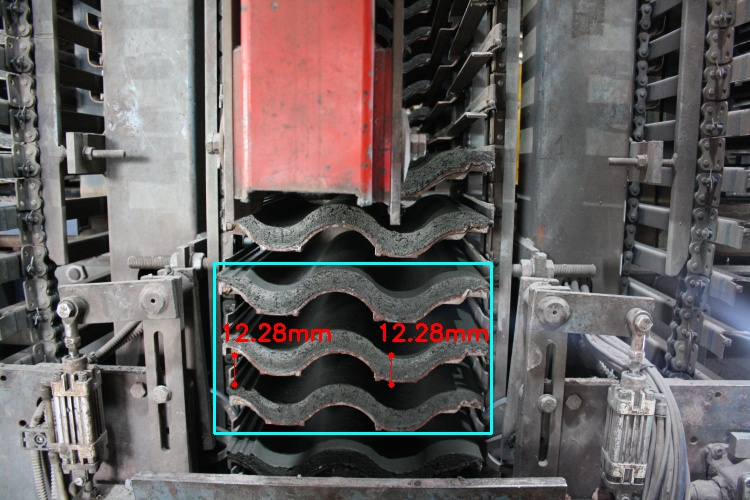
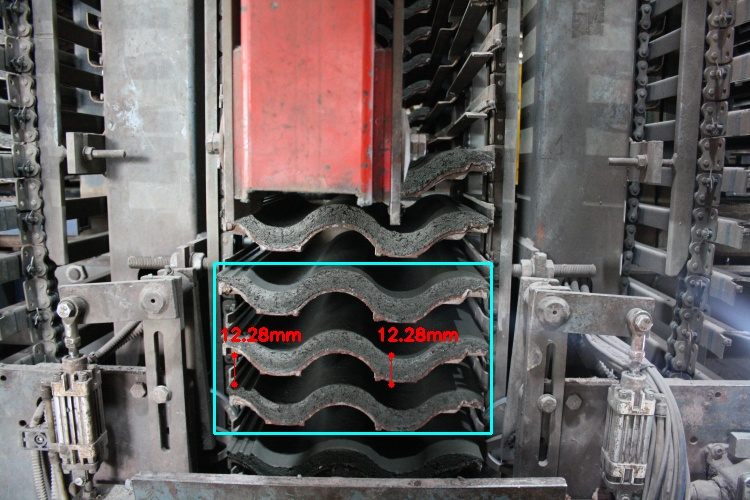
added image with all detected measurements

Changed region(s): [[0.4907, 0.63, 0.6747, 0.69], [0.276, 0.63, 0.46, 0.69]]

diff --git a/templates/index.html b/templates/index.html
@@ -158,8 +158,17 @@
 
    </div>
 
+   <div class="container">
+      <h2>All detected points</h2>
+   <img src = "{{data.caio}}" alt="{{data.caio}}" width="100%" height="100%">
+   <br>
+   <br>
+
+   </div>
+
 
    {% endif %}
+
 
 
    <script src="{{ url_for('static', filename='js/index.js') }}"></script>

diff --git a/app.py b/app.py
@@ -10,6 +10,7 @@ from scipy.spatial import distance as dist
 import imutils
 from imutils import perspective
 from imutils import contours
+import re
 
 # arrangements for heroku
 UPLOAD_FOLDER ='static/uploads/'
@@ -255,6 +256,7 @@ def detect_object(path, filename):    # TODO:
         # 'pixels per metric' calibration variable
         (cnts, _) = contours.sort_contours(cnts)
 
+        orig2 = oorig.copy()
         for c in cnts:
             orig = oorig.copy()
             
@@ -292,6 +294,7 @@ def detect_object(path, filename):    # TODO:
             # print(roic)
         
             cv2.drawContours(orig, [roic.astype("int")], -1, (255, 255, 0), 2)
+            cv2.drawContours(orig2, [roic.astype("int")], -1, (255, 255, 0), 2)
             # cv2.drawContours(orig, [box.astype("int")], -1, (0, 255, 0), 2)
         
         
@@ -301,6 +304,7 @@ def detect_object(path, filename):    # TODO:
             # loop over the original points and draw them
             for (x, y) in box:
                 cv2.circle(orig, (int(x), int(y)), 3, (0, 0, 255), -1)
+                cv2.circle(orig2, (int(x), int(y)), 3, (0, 0, 255), -1)
         
             # unpack the ordered bounding box, then compute the midpoint
             # between the top-left and top-right coordinates, followed by
@@ -315,6 +319,9 @@ def detect_object(path, filename):    # TODO:
 
             cv2.line(orig, tl, bl, (0, 0, 255), 1) 
             cv2.line(orig, tr, br, (0, 0, 255), 1) 
+
+            cv2.line(orig2, tl, bl, (0, 0, 255), 1) 
+            cv2.line(orig2, tr, br, (0, 0, 255), 1) 
         
             # # draw the midpoints on the image
             # cv2.circle(orig, (int(tltrX), int(tltrY)), 5, (255, 0, 0), -1)
@@ -349,10 +356,16 @@ def detect_object(path, filename):    # TODO:
             # draw the object sizes on the image
             cv2.putText(orig, "{:.2f}mm".format((dimA*2.54)*10),
                 (int(tl[0])-15, int(tl[1])-15), cv2.FONT_HERSHEY_SIMPLEX,
-                0.75, (0, 0, 255), 2)
+                0.55, (0, 0, 255), 2)
             cv2.putText(orig, "{:.2f}mm".format((dimA*2.54)*10),
                 (int(tr[0])-15, int(tr[1])-15), cv2.FONT_HERSHEY_SIMPLEX,
-                0.75, (0, 0, 255), 2)
+                0.55, (0, 0, 255), 2)
+            cv2.putText(orig2, "{:.2f}mm".format((dimA*2.54)*10),
+                (int(tl[0])-15, int(tl[1])-15), cv2.FONT_HERSHEY_SIMPLEX,
+                0.55, (0, 0, 255), 2)
+            cv2.putText(orig2, "{:.2f}mm".format((dimA*2.54)*10),
+                (int(tr[0])-15, int(tr[1])-15), cv2.FONT_HERSHEY_SIMPLEX,
+                0.55, (0, 0, 255), 2)
                 
             # cv2.putText(orig, "{:.2f}in".format(dimA),
             #     (int(tltrX - 15), int(tltrY - 10)), cv2.FONT_HERSHEY_SIMPLEX,
@@ -369,6 +382,7 @@ def detect_object(path, filename):    # TODO:
             # print(counter)
             # cv2.waitKey(0)
             cv2.imwrite(f"{DOWNLOAD_FOLDER}processed/c{counter}_{filename}",orig)
+            cv2.imwrite(f"{DOWNLOAD_FOLDER}processed/caio_{filename}",orig2)
             contournp = (f"{DOWNLOAD_FOLDER}processed/c{counter}_{filename}")
             print(contournp)
             filelist.append(contournp)
@@ -393,6 +407,12 @@ def index():
 
             # filelist = filelist
             imageList = os.listdir('static/downloads/processed')
+            for val in imageList:
+                # if 'caio' in val:
+                if re.search('aio', val):
+                    # imageList.remove(imageList.index(val))
+                    imageList.remove(val)
+                    
             # imagelist = ['processed/' + image for image in imageList]
             imagelist = imageList
 
@@ -408,6 +428,7 @@ def index():
                 "thresh_img":'static/downloads/thresh_'+filename,
                 "mask_img":'static/downloads/mask_'+filename,
                 "tilesdetected":'static/downloads/tilesdetected_'+filename,
+                "caio":'static/downloads/processed/caio_'+filename,
                 # "processed_img_c{i}":'static/downloads/processed_'+'c{i}_'+filename,
                 # "processed_img_c{i}":'static/downloads/processed_'+'c{i}_'+filename,
                 "{i}":'static/downloads/processed_'+'c{i}_'+filename,
